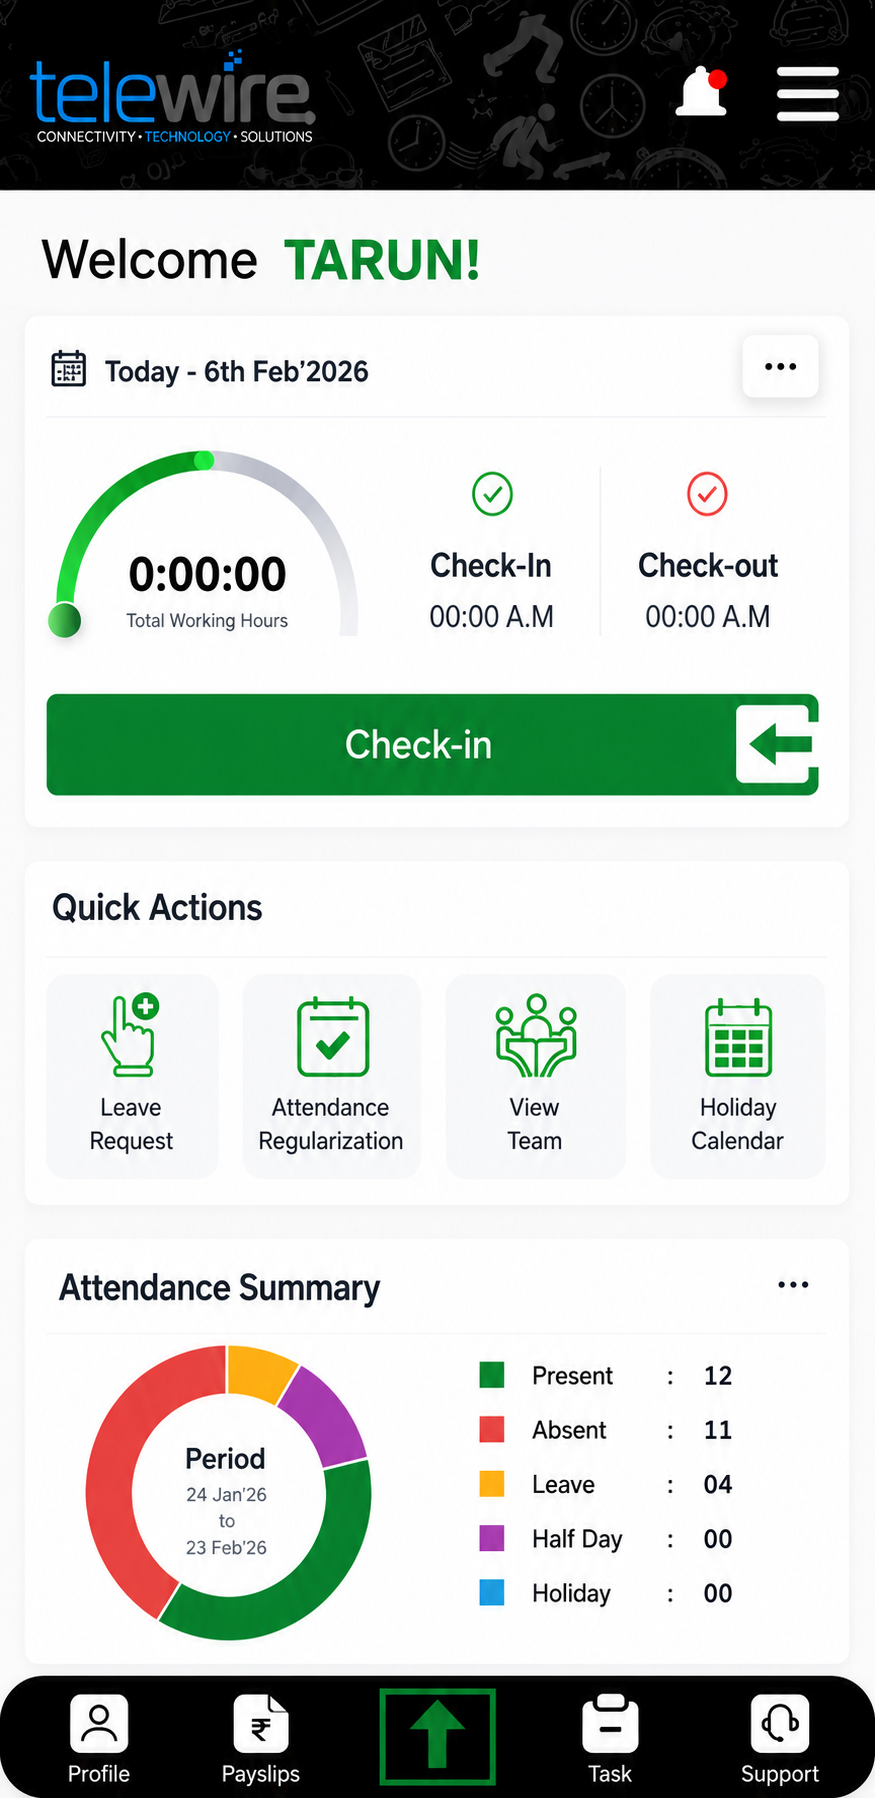
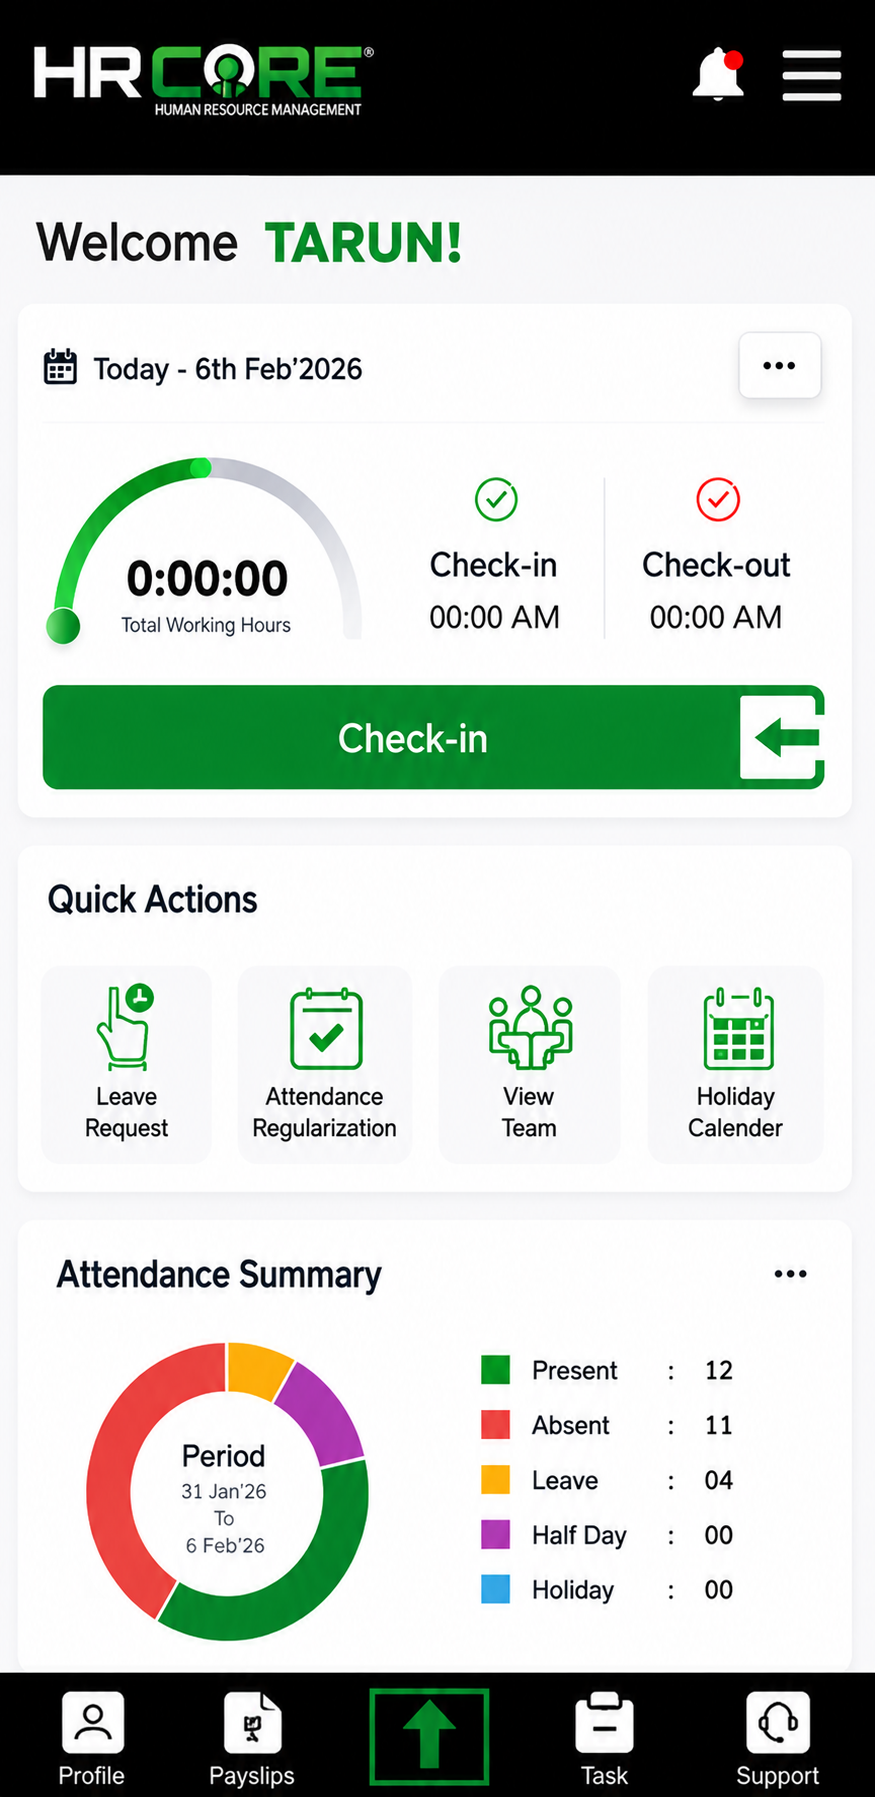
new desgin

diff --git a/src/components/HeroVariant3.tsx b/src/components/HeroVariant3.tsx
@@ -1,9 +1,9 @@
 "use client";
 
 import { motion } from "framer-motion";
-import { 
-  ArrowRight, User, Bell, Users, CalendarX2, 
-  Banknote, Wallet, Database, Headset, MapPin, Plane, IndianRupee, PartyPopper, ListTodo 
+import {
+  ArrowRight, User, Bell, Users, CalendarX2,
+  Banknote, Wallet, Database, Headset, MapPin, Plane, IndianRupee, PartyPopper, ListTodo
 } from "lucide-react";
 import { useModal } from "@/context/ModalContext";
 
@@ -14,14 +14,14 @@ export function HeroVariant3() {
       <style>{`
         .data-flow-bg {
             background-color: #f9f9f9;
-            background-image: 
+            background-image:
                 linear-gradient(90deg, rgba(76, 175, 80, 0.05) 1px, transparent 1px),
                 linear-gradient(rgba(76, 175, 80, 0.05) 1px, transparent 1px);
             background-size: 40px 40px;
             position: relative;
             overflow: hidden;
         }
-        
+
         .neon-line {
             position: absolute;
             background: linear-gradient(90deg, transparent, rgba(76, 175, 80, 0.8), transparent);
@@ -30,7 +30,7 @@ export function HeroVariant3() {
             opacity: 0;
             animation: flowRight 4s infinite linear;
         }
-        
+
         .neon-line-vertical {
             position: absolute;
             background: linear-gradient(180deg, transparent, rgba(76, 175, 80, 0.8), transparent);
@@ -45,7 +45,7 @@ export function HeroVariant3() {
             50% { opacity: 1; }
             100% { transform: translateX(100vw); opacity: 0; }
         }
-        
+
         @keyframes flowDown {
             0% { transform: translateY(-100%); opacity: 0; }
             50% { opacity: 1; }
@@ -55,11 +55,11 @@ export function HeroVariant3() {
         .float-slow {
             animation: float 6s ease-in-out infinite;
         }
-        
+
         .float-medium {
             animation: float 4s ease-in-out infinite alternate;
         }
-        
+
         .float-fast {
             animation: float 3s ease-in-out infinite alternate-reverse;
         }
@@ -77,19 +77,19 @@ export function HeroVariant3() {
 
       {/* Main Content: Neon Data-Flow Hero */}
       <main className="flex-grow flex items-center justify-center data-flow-bg relative py-20 lg:py-32 min-h-[calc(100vh-80px)]">
-        
+
         {/* Animated Background Elements */}
         <div className="neon-line" style={{ top: "20%", left: 0, animationDelay: "0s" }}></div>
         <div className="neon-line" style={{ top: "60%", left: 0, animationDelay: "2s" }}></div>
         <div className="neon-line" style={{ top: "80%", left: 0, animationDelay: "1s", width: "300px" }}></div>
         <div className="neon-line-vertical" style={{ left: "15%", top: 0, animationDelay: "0.5s" }}></div>
         <div className="neon-line-vertical" style={{ left: "85%", top: 0, animationDelay: "2.5s" }}></div>
-        
+
         <div className="w-[82%] mx-auto relative z-10 grid grid-cols-1 lg:grid-cols-2 gap-20 items-center">
-          
+
           {/* Text Content */}
           <div className="flex flex-col gap-12 z-20">
-            <motion.div 
+            <motion.div
               initial={{ opacity: 0, y: 20 }}
               animate={{ opacity: 1, y: 0 }}
               transition={{ duration: 0.6 }}
@@ -99,15 +99,15 @@ export function HeroVariant3() {
                 NEXT-GEN HR PLATFORM
               </span>
               <h1 className="text-5xl md:text-[56px] md:leading-[64px] font-bold text-[#1a1c1c] tracking-tight">
-                HRMS. Payroll. HR Services.<br/>
+                HRMS. Payroll. HR Services.<br />
                 <span className="text-[#006e1c]">All Under One Roof.</span>
               </h1>
               <p className="text-lg text-[#3f4a3c] max-w-xl mt-4 leading-relaxed">
                 Transform your complex operational data into actionable insights with our expertly designed, modern HR tool set. Streamlined, efficient, and built for growth.
               </p>
             </motion.div>
-            
-            <motion.div 
+
+            <motion.div
               initial={{ opacity: 0, y: 20 }}
               animate={{ opacity: 1, y: 0 }}
               transition={{ duration: 0.6, delay: 0.2 }}
@@ -121,8 +121,8 @@ export function HeroVariant3() {
                 Talk to Expert
               </button>
             </motion.div>
-            
-            <motion.div 
+
+            <motion.div
               initial={{ opacity: 0 }}
               animate={{ opacity: 1 }}
               transition={{ duration: 0.8, delay: 0.4 }}
@@ -136,9 +136,9 @@ export function HeroVariant3() {
               <span className="text-sm font-medium">Trusted by 10,000+ HR Professionals</span>
             </motion.div>
           </div>
-          
+
           {/* Visual Graphic: Floating Smartphone & Orbital Icons */}
-          <motion.div 
+          <motion.div
             initial={{ opacity: 0, scale: 0.95 }}
             animate={{ opacity: 1, scale: 1 }}
             transition={{ duration: 0.8 }}
@@ -146,18 +146,20 @@ export function HeroVariant3() {
           >
             {/* Central Smartphone Frame */}
             <div className="relative z-20 w-[280px] h-[580px] rounded-[3rem] border-[8px] border-[#222] bg-[#111] shadow-2xl flex flex-col overflow-hidden ring-1 ring-white/10 float-slow glow-effect">
-              
+
               {/* Phone Notch */}
               <div className="absolute top-0 inset-x-0 h-7 flex justify-center z-20">
                 <div className="w-32 h-6 bg-[#222] rounded-b-3xl"></div>
               </div>
-              
+
               {/* Screen Content */}
-              <img src="/Mobile.png" alt="HRMS Mobile App" className="w-full h-full object-cover object-top p-2 rounded-[2.5rem]" />
+              <div className="w-full h-full p-1 pt-7">
+                <img src="/Mobile.png" alt="HRMS Mobile App" className="w-full h-auto object-cover object-top rounded-[1.5rem]" />
+              </div>
             </div>
-            
+
             {/* Orbital Icons (Bento/Glassmorphism style) */}
-            
+
             {/* 1. Top Left: Check-In */}
             <div className="absolute top-[10%] left-[0%] md:left-[-15%] z-30 float-slow">
               <div className="bg-white/90 backdrop-blur-md border border-[#e2e2e2] p-3 rounded-xl shadow-lg flex items-center gap-3">
@@ -217,11 +219,11 @@ export function HeroVariant3() {
                 <p className="text-sm font-bold text-[#1a1c1c] pl-2">HR Support</p>
               </div>
             </div>
-            
+
             {/* Decorative Background Circles */}
             <div className="absolute top-1/2 left-1/2 -translate-x-1/2 -translate-y-1/2 w-[400px] h-[400px] rounded-full border border-[#006e1c]/10 z-0 pointer-events-none"></div>
             <div className="absolute top-1/2 left-1/2 -translate-x-1/2 -translate-y-1/2 w-[550px] h-[550px] rounded-full border border-[#006e1c]/5 z-0 border-dashed pointer-events-none"></div>
-            
+
           </motion.div>
         </div>
       </main>

diff --git a/src/components/EmployeeApp.tsx b/src/components/EmployeeApp.tsx
@@ -86,7 +86,9 @@ export function EmployeeApp() {
               </div>
               
               {/* Screen Content */}
-              <img src="/Mobile.png" alt="Employee HR App" className="w-full h-full object-cover object-top p-2 rounded-[2.5rem]" />
+              <div className="w-full h-full p-1 pt-7">
+                <img src="/Mobile.png" alt="Employee HR App" className="w-full h-auto object-cover object-top rounded-[1.5rem]" />
+              </div>
             </div>
           </motion.div>
 
